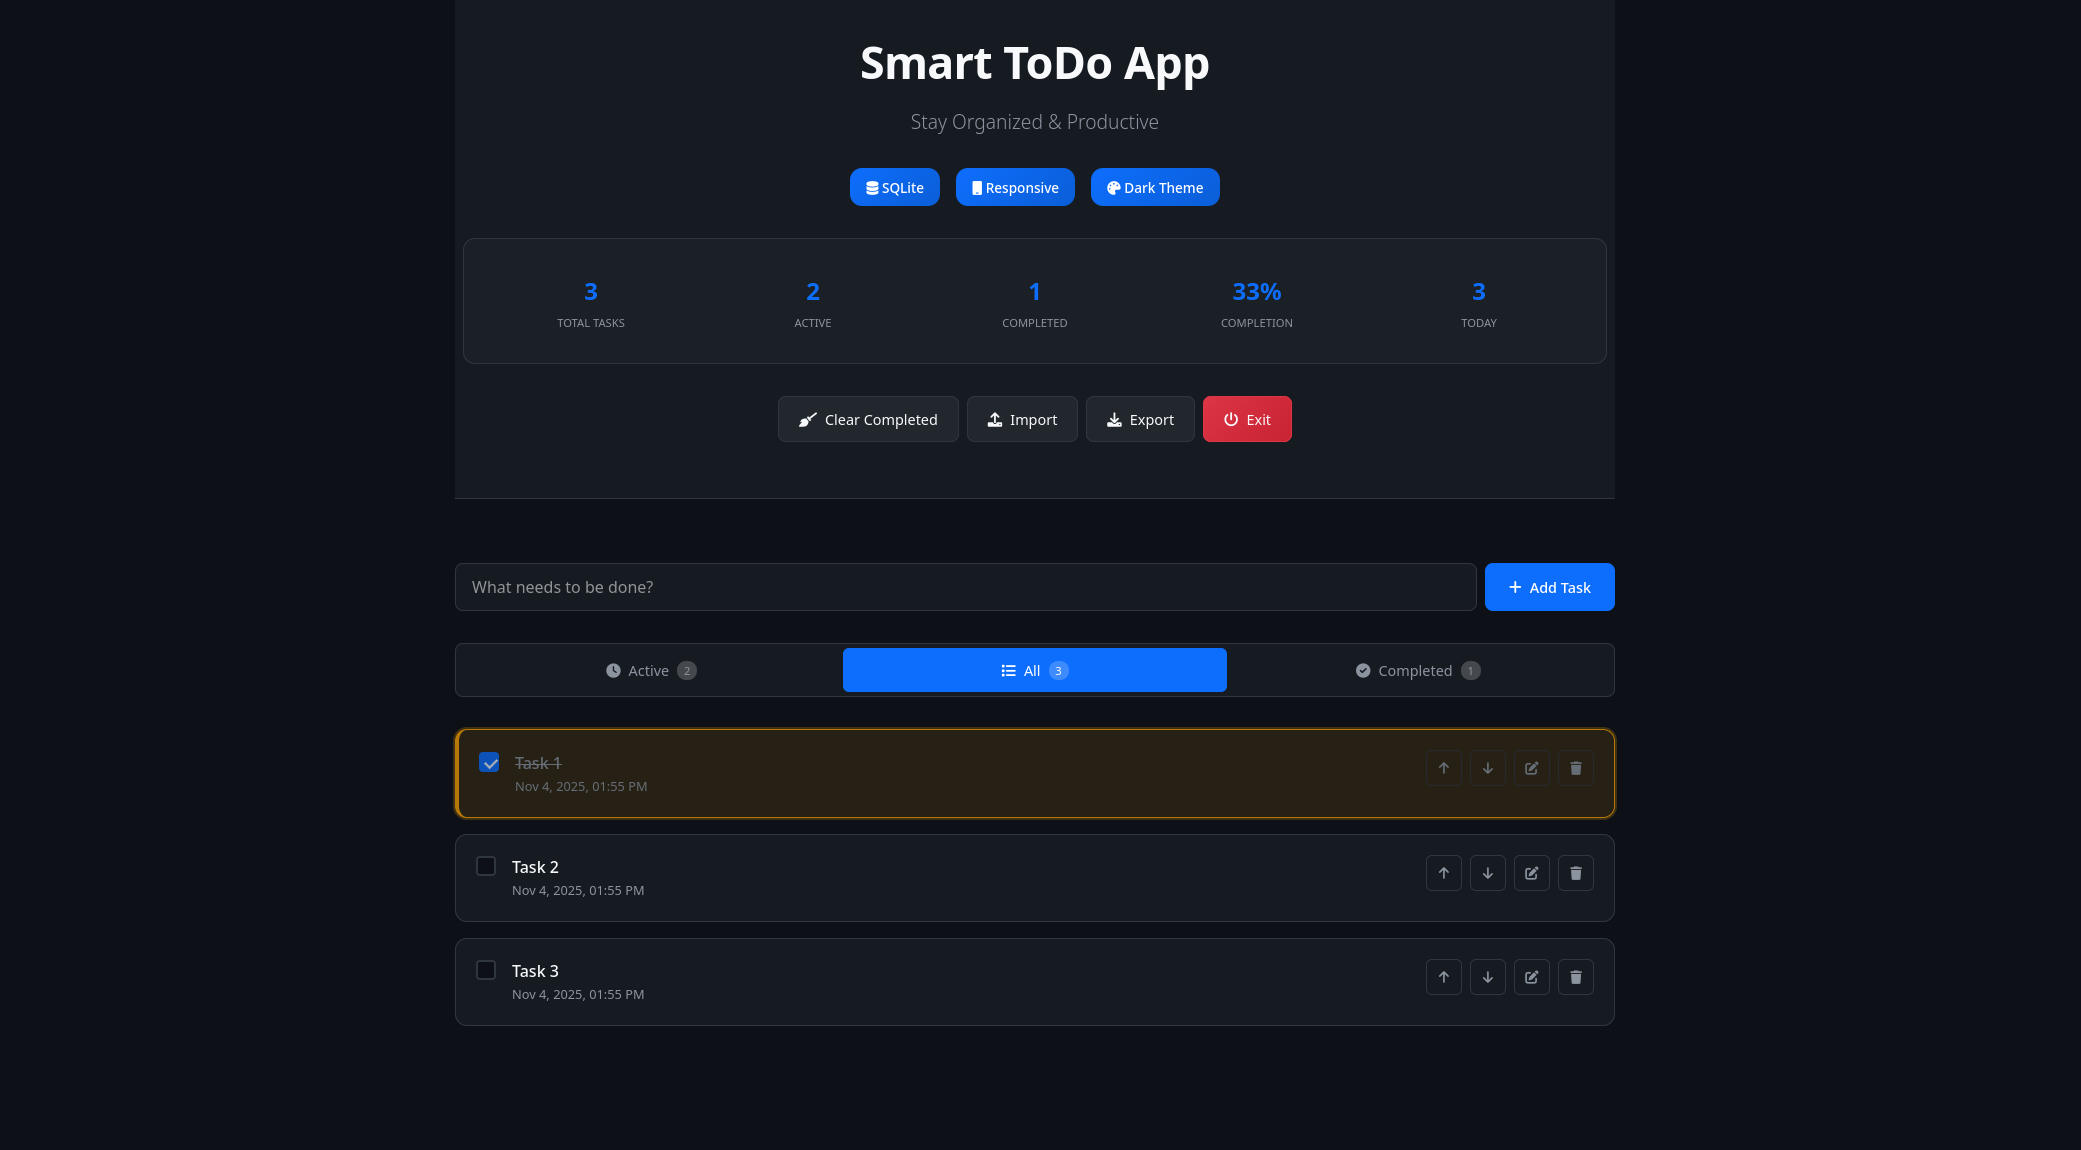
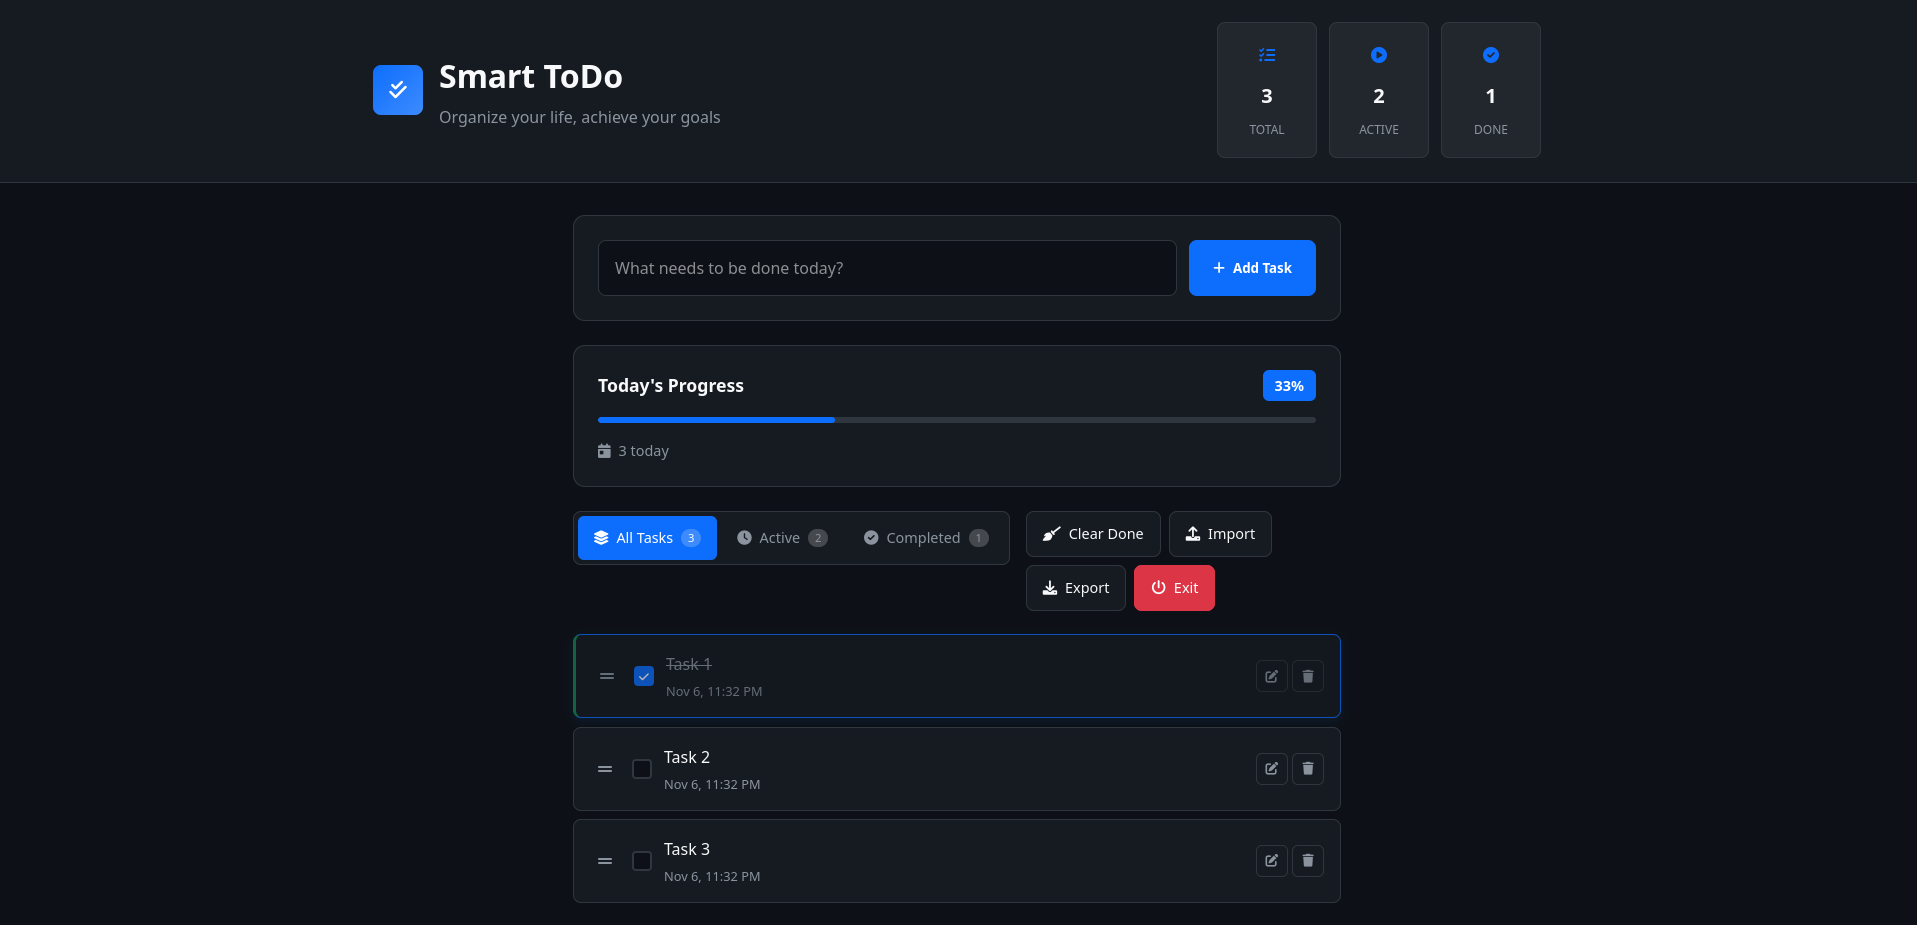
Smart Legion ToDo v0.2.8

diff --git a/styles/styles.css b/styles/styles.css
@@ -742,3 +742,109 @@ body {
     outline: 2px solid var(--accent);
     outline-offset: 2px;
 }
+
+.fixed-actions {
+    position: fixed;
+    bottom: 0;
+    left: 0;
+    right: 0;
+    background: rgba(13, 17, 23, 0.95);
+    backdrop-filter: blur(10px);
+    border-top: 1px solid var(--border);
+    padding: 1rem;
+    display: flex;
+    justify-content: center;
+    gap: 0.75rem;
+    z-index: 1000;
+}
+
+.fixed-btn {
+    padding: 0.75rem 1.25rem;
+    border: 1px solid var(--border);
+    background: var(--secondary);
+    color: var(--text-light);
+    border-radius: var(--radius-md);
+    cursor: pointer;
+    display: flex;
+    align-items: center;
+    gap: 0.5rem;
+    font-size: 0.9rem;
+    white-space: nowrap;
+    transition: all 0.2s ease;
+    flex-shrink: 0;
+}
+
+.fixed-btn:hover {
+    background: var(--accent);
+    border-color: var(--accent);
+    transform: translateY(-2px);
+}
+
+.fixed-btn.danger {
+    background: var(--danger);
+    border-color: var(--danger);
+    color: white;
+}
+
+.fixed-btn.danger:hover {
+    background: #c82333;
+}
+
+@media (max-width: 768px) {
+    .fixed-actions {
+        padding: 0.75rem;
+        gap: 0.5rem;
+        flex-wrap: wrap;
+        justify-content: space-around;
+    }
+    
+    .fixed-btn {
+        padding: 0.75rem 1rem;
+        flex: 1;
+        min-width: 80px;
+        max-width: 120px;
+        justify-content: center;
+        font-size: 0.8rem;
+    }
+    
+    .fixed-btn span {
+        font-size: 0.8rem;
+    }
+}
+
+@media (max-width: 480px) {
+    .fixed-actions {
+        padding: 0.5rem;
+        gap: 0.25rem;
+    }
+    
+    .fixed-btn {
+        padding: 0.6rem 0.5rem;
+        font-size: 0.75rem;
+    }
+    
+    .fixed-btn span {
+        display: none;
+    }
+    
+    .fixed-btn i {
+        margin: 0;
+        font-size: 0.9rem;
+    }
+}
+
+.main-content {
+    padding-bottom: 80px;
+}
+
+@media (max-width: 768px) {
+    .main-content {
+        padding-bottom: 70px;
+    }
+}
+
+@media (max-width: 480px) {
+    .main-content {
+        padding-bottom: 60px;
+    }
+}

diff --git a/index.html b/index.html
@@ -108,25 +108,6 @@
                         <span class="tab-badge" id="completedCount">0</span>
                     </button>
                 </div>
-
-                <div class="action-buttons">
-                    <button class="action-btn" id="clearCompleted">
-                        <i class="fas fa-broom"></i>
-                        <span>Clear Done</span>
-                    </button>
-                    <button class="action-btn" id="importTasks">
-                        <i class="fas fa-upload"></i>
-                        <span>Import</span>
-                    </button>
-                    <button class="action-btn" id="exportTasks">
-                        <i class="fas fa-download"></i>
-                        <span>Export</span>
-                    </button>
-                    <button class="action-btn danger" id="exitApp">
-                        <i class="fas fa-power-off"></i>
-                        <span>Exit</span>
-                    </button>
-                </div>
             </section>
 
             <section class="tasks-section">
@@ -196,5 +177,26 @@
     </template>
 
     <script src="js/app.js"></script>
+
+
+    <div class="fixed-actions">
+        <button class="fixed-btn" id="clearCompleted">
+            <i class="fas fa-broom"></i>
+            <span>Clear Done</span>
+        </button>
+        <button class="fixed-btn" id="importTasks">
+            <i class="fas fa-upload"></i>
+            <span>Import</span>
+        </button>
+        <button class="fixed-btn" id="exportTasks">
+            <i class="fas fa-download"></i>
+            <span>Export</span>
+        </button>
+        <button class="fixed-btn danger" id="exitApp">
+            <i class="fas fa-power-off"></i>
+            <span>Exit</span>
+        </button>
+    </div>
+
 </body>
 </html>

diff --git a/js/app.js b/js/app.js
@@ -169,11 +169,23 @@ class TodoApp {
         
     }
 
-    handleTaskChange(e) {
+    async handleTaskChange(e) {
         if (e.target.classList.contains('task-completed')) {
             const taskElement = e.target.closest('.task-card');
             const taskUuid = taskElement.dataset.uuid;
-            this.updateTask(taskUuid, { completed: e.target.checked });
+            const isCompleted = e.target.checked;
+            
+            try {
+                await this.updateTask(taskUuid, { completed: isCompleted });
+                
+                if (isCompleted) {
+                    this.showNotification('Task completed! 🎉', 'success');
+                } else {
+                    this.showNotification('Task marked as active', 'info');
+                }
+                
+            } catch (error) {
+            }
         }
     }
 
